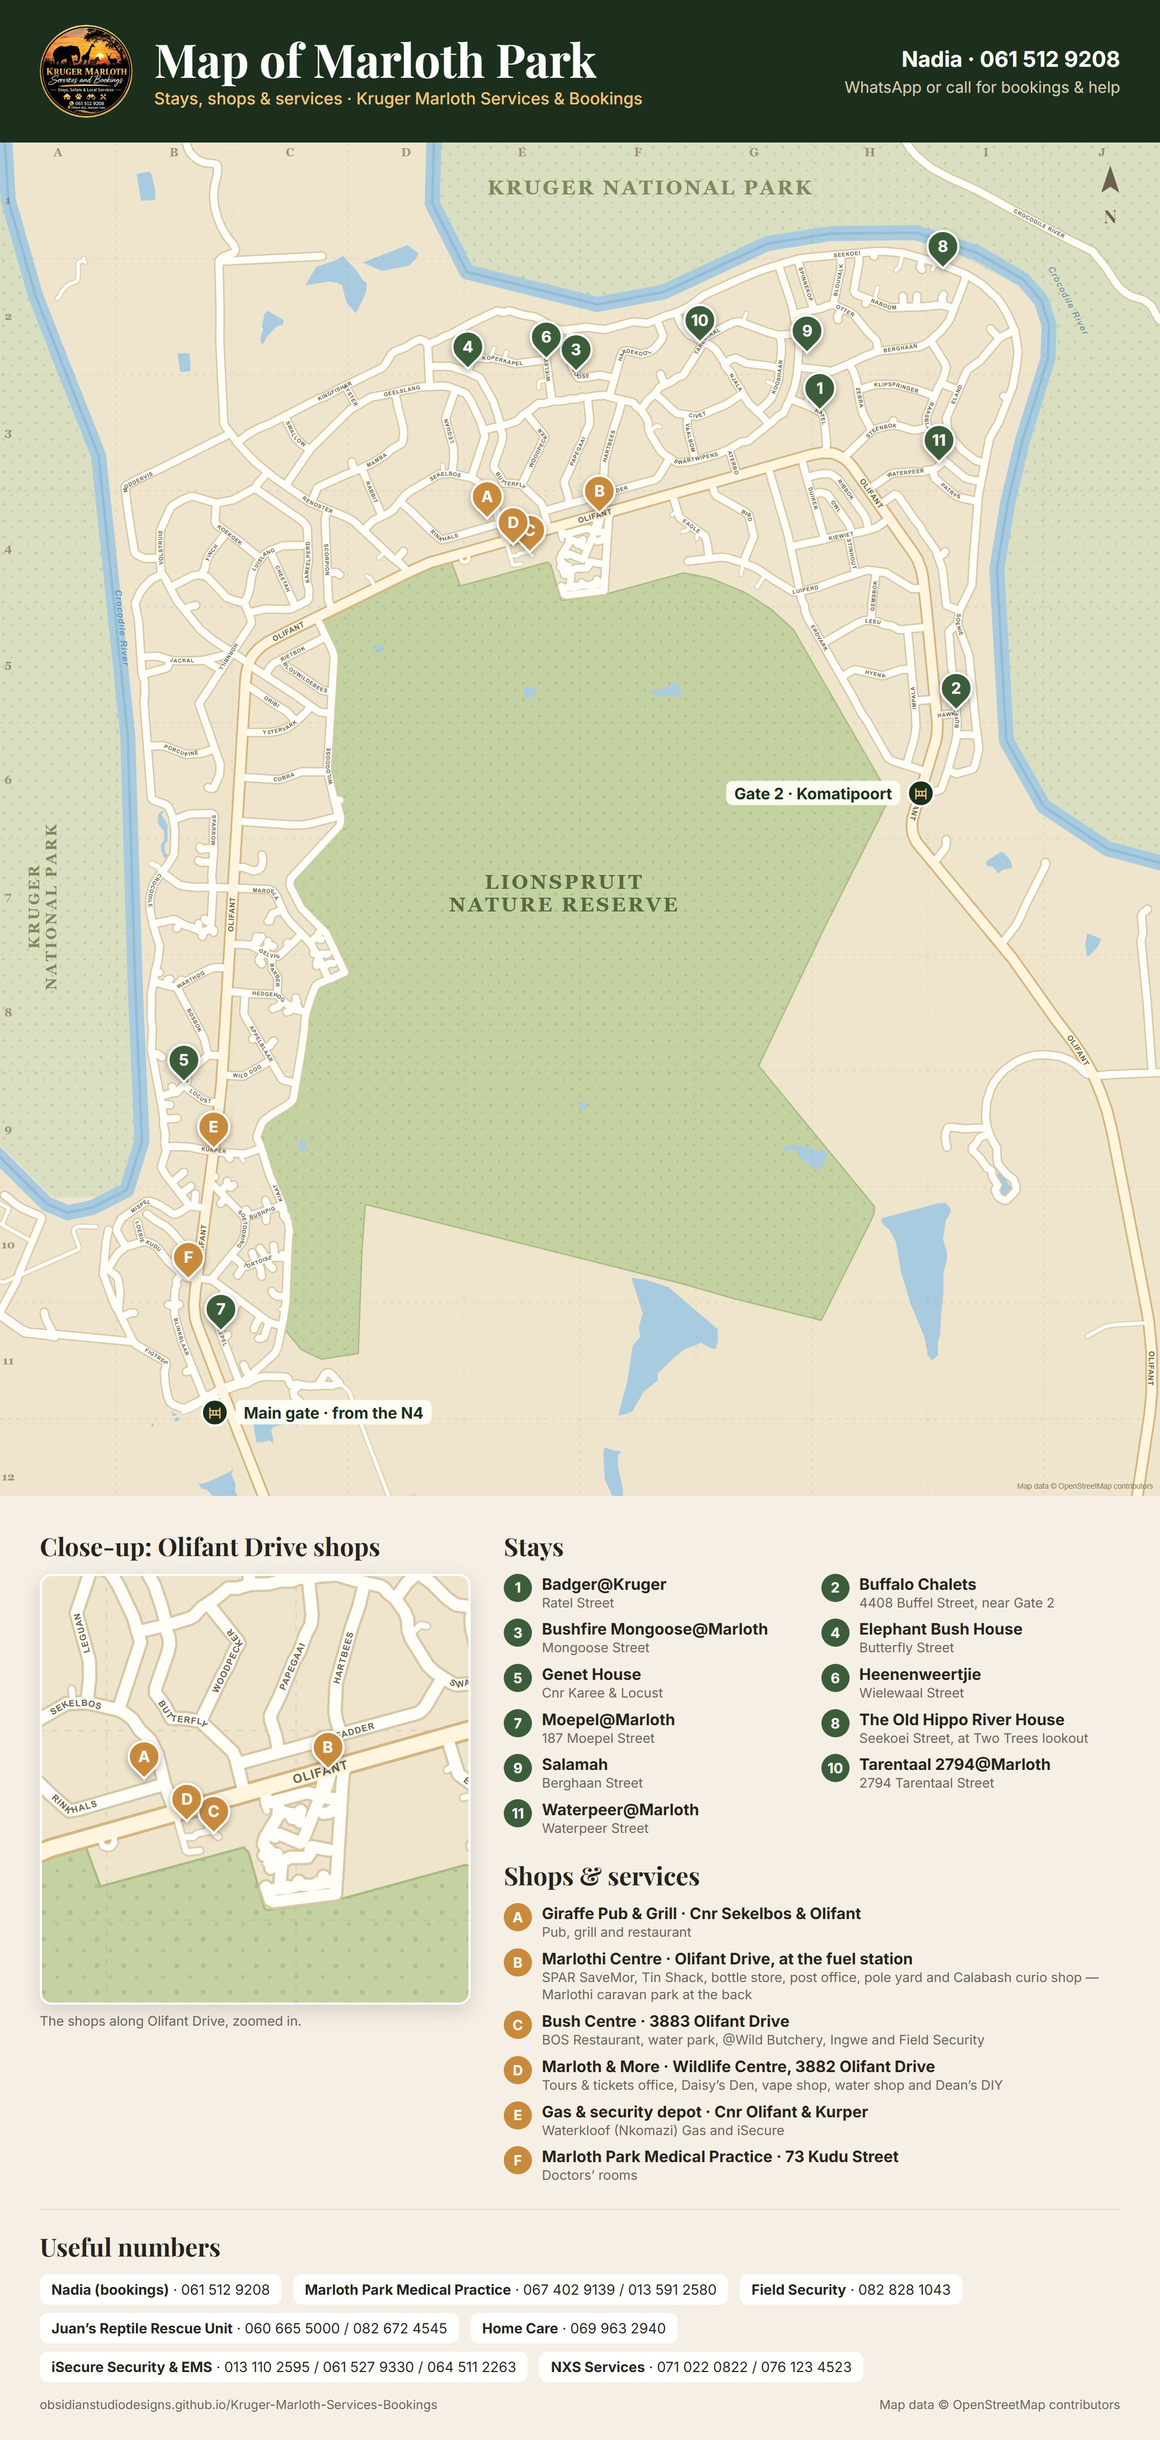
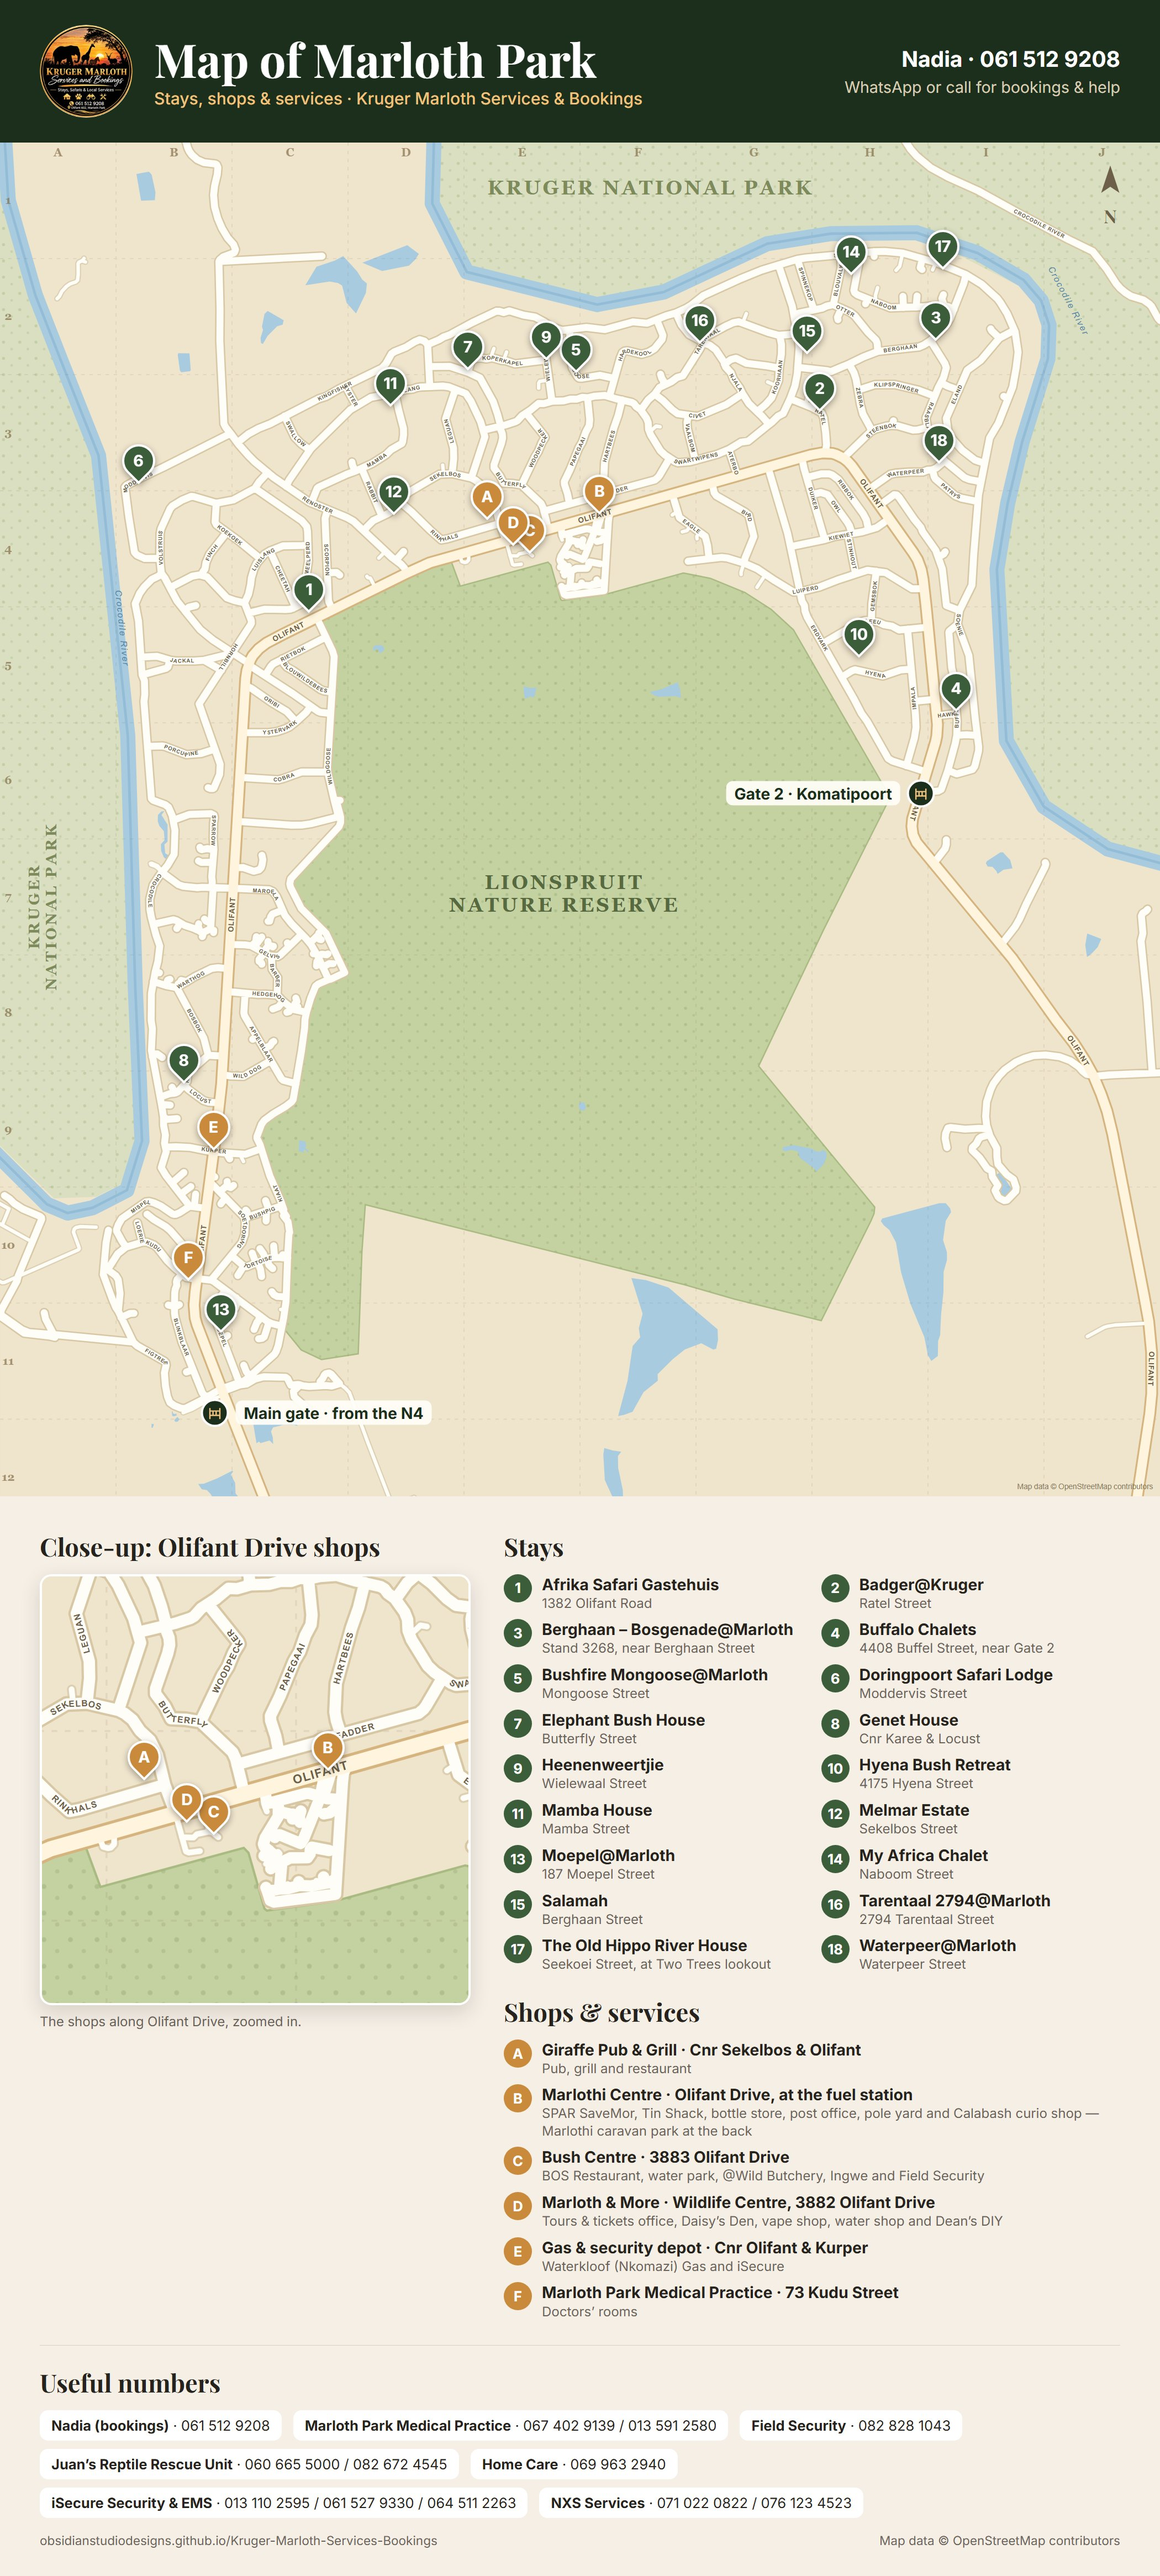
Pin 7 more stays on the park map from their Google listings
Afrika Safari Gastehuis, Bosgenade, Doringpoort Safari Lodge, Hyena Bush
Retreat (address from its own website), Mamba House, Melmar Estate and My
Africa Chalet. Offline map picture rebuilt.

diff --git a/assets/js/data.js b/assets/js/data.js
@@ -1449,16 +1449,23 @@ const EXPERIENCES = [
 const MAP = {
   bounds: { west: 31.748, east: 31.822, north: -25.326, south: -25.404 },
   stays: [
+    { stay: 'afrika-safari', lat: -25.35320, lng: 31.76771, where: '1382 Olifant Road' },
     { stay: 'badger-kruger', lat: -25.34160, lng: 31.80030, where: 'Ratel Street' },
+    { stay: 'bosgenade', lat: -25.33752, lng: 31.80771, where: 'Stand 3268, near Berghaan Street' },
     { stay: 'buffalo-chalets', lat: -25.35890, lng: 31.80900, where: '4408 Buffel Street, near Gate 2' },
     { stay: 'bushfire-mongoose', lat: -25.33936, lng: 31.78474, where: 'Mongoose Street' },
+    { stay: 'doringpoort', lat: -25.34577, lng: 31.75683, where: 'Moddervis Street' },
     { stay: 'elephant-bush-house', lat: -25.33923, lng: 31.77785, where: 'Butterfly Street' },
     { stay: 'genet-house', lat: -25.38031, lng: 31.75973, where: 'Cnr Karee & Locust' },
     { stay: 'heenenweertjie', lat: -25.33864, lng: 31.78285, where: 'Wielewaal Street' },
+    { stay: 'hyena-bush-retreat', lat: -25.35577, lng: 31.80280, where: '4175 Hyena Street' },
+    { stay: 'mamba-house', lat: -25.34132, lng: 31.77290, where: 'Mamba Street' },
+    { stay: 'melmar-estate', lat: -25.34757, lng: 31.77312, where: 'Sekelbos Street' },
     { stay: 'moepel', lat: -25.39468, lng: 31.76210, where: '187 Moepel Street' },
-    { stay: 'old-hippo', lat: -25.33341, lng: 31.80815, where: 'Seekoei Street, at Two Trees lookout' },
+    { stay: 'my-africa-chalet', lat: -25.33373, lng: 31.80231, where: 'Naboom Street' },
     { stay: 'salamah', lat: -25.33830, lng: 31.79950, where: 'Berghaan Street' },
     { stay: 'tarentaal', lat: -25.33770, lng: 31.79265, where: '2794 Tarentaal Street' },
+    { stay: 'old-hippo', lat: -25.33341, lng: 31.80815, where: 'Seekoei Street, at Two Trees lookout' },
     { stay: 'waterpeer', lat: -25.34460, lng: 31.80790, where: 'Waterpeer Street' },
   ],
   places: [

diff --git a/stays/doringpoort-lemoentjiedoring/index.html b/stays/doringpoort-lemoentjiedoring/index.html
@@ -148,7 +148,7 @@
 <link rel="preconnect" href="https://fonts.googleapis.com">
 <link rel="preconnect" href="https://fonts.gstatic.com" crossorigin>
 <link href="https://fonts.googleapis.com/css2?family=Playfair+Display:ital,wght@0,600;0,700;1,600&family=Inter:wght@400;500;600;700&display=swap" rel="stylesheet">
-<link rel="stylesheet" href="assets/css/site.css?v=20261113c" />
+<link rel="stylesheet" href="assets/css/site.css?v=20261113d" />
 </head>
 <body data-stay="doringpoort-lemoentjiedoring">
 <noscript><main class="container" style="padding:40px 16px">
@@ -376,8 +376,8 @@
 
 <div class="toast" id="toast" role="status" aria-live="polite"></div>
 
-<script src="assets/js/data.js?v=20261113c"></script>
-<script src="assets/js/common.js?v=20261113c"></script>
-<script src="assets/js/site.js?v=20261113c"></script>
+<script src="assets/js/data.js?v=20261113d"></script>
+<script src="assets/js/common.js?v=20261113d"></script>
+<script src="assets/js/site.js?v=20261113d"></script>
 </body>
 </html>

diff --git a/stays/doringpoort-delagoadoring/index.html b/stays/doringpoort-delagoadoring/index.html
@@ -143,7 +143,7 @@
 <link rel="preconnect" href="https://fonts.googleapis.com">
 <link rel="preconnect" href="https://fonts.gstatic.com" crossorigin>
 <link href="https://fonts.googleapis.com/css2?family=Playfair+Display:ital,wght@0,600;0,700;1,600&family=Inter:wght@400;500;600;700&display=swap" rel="stylesheet">
-<link rel="stylesheet" href="assets/css/site.css?v=20261113c" />
+<link rel="stylesheet" href="assets/css/site.css?v=20261113d" />
 </head>
 <body data-stay="doringpoort-delagoadoring">
 <noscript><main class="container" style="padding:40px 16px">
@@ -371,8 +371,8 @@
 
 <div class="toast" id="toast" role="status" aria-live="polite"></div>
 
-<script src="assets/js/data.js?v=20261113c"></script>
-<script src="assets/js/common.js?v=20261113c"></script>
-<script src="assets/js/site.js?v=20261113c"></script>
+<script src="assets/js/data.js?v=20261113d"></script>
+<script src="assets/js/common.js?v=20261113d"></script>
+<script src="assets/js/site.js?v=20261113d"></script>
 </body>
 </html>

diff --git a/stays/doringpoort-apiesdoring/index.html b/stays/doringpoort-apiesdoring/index.html
@@ -142,7 +142,7 @@
 <link rel="preconnect" href="https://fonts.googleapis.com">
 <link rel="preconnect" href="https://fonts.gstatic.com" crossorigin>
 <link href="https://fonts.googleapis.com/css2?family=Playfair+Display:ital,wght@0,600;0,700;1,600&family=Inter:wght@400;500;600;700&display=swap" rel="stylesheet">
-<link rel="stylesheet" href="assets/css/site.css?v=20261113c" />
+<link rel="stylesheet" href="assets/css/site.css?v=20261113d" />
 </head>
 <body data-stay="doringpoort-apiesdoring">
 <noscript><main class="container" style="padding:40px 16px">
@@ -370,8 +370,8 @@
 
 <div class="toast" id="toast" role="status" aria-live="polite"></div>
 
-<script src="assets/js/data.js?v=20261113c"></script>
-<script src="assets/js/common.js?v=20261113c"></script>
-<script src="assets/js/site.js?v=20261113c"></script>
+<script src="assets/js/data.js?v=20261113d"></script>
+<script src="assets/js/common.js?v=20261113d"></script>
+<script src="assets/js/site.js?v=20261113d"></script>
 </body>
 </html>

diff --git a/stays/doringpoort-luxury-home/index.html b/stays/doringpoort-luxury-home/index.html
@@ -148,7 +148,7 @@
 <link rel="preconnect" href="https://fonts.googleapis.com">
 <link rel="preconnect" href="https://fonts.gstatic.com" crossorigin>
 <link href="https://fonts.googleapis.com/css2?family=Playfair+Display:ital,wght@0,600;0,700;1,600&family=Inter:wght@400;500;600;700&display=swap" rel="stylesheet">
-<link rel="stylesheet" href="assets/css/site.css?v=20261113c" />
+<link rel="stylesheet" href="assets/css/site.css?v=20261113d" />
 </head>
 <body data-stay="doringpoort-luxury-home">
 <noscript><main class="container" style="padding:40px 16px">
@@ -376,8 +376,8 @@
 
 <div class="toast" id="toast" role="status" aria-live="polite"></div>
 
-<script src="assets/js/data.js?v=20261113c"></script>
-<script src="assets/js/common.js?v=20261113c"></script>
-<script src="assets/js/site.js?v=20261113c"></script>
+<script src="assets/js/data.js?v=20261113d"></script>
+<script src="assets/js/common.js?v=20261113d"></script>
+<script src="assets/js/site.js?v=20261113d"></script>
 </body>
 </html>

diff --git a/stays/doringpoort-soetdoring/index.html b/stays/doringpoort-soetdoring/index.html
@@ -136,7 +136,7 @@
 <link rel="preconnect" href="https://fonts.googleapis.com">
 <link rel="preconnect" href="https://fonts.gstatic.com" crossorigin>
 <link href="https://fonts.googleapis.com/css2?family=Playfair+Display:ital,wght@0,600;0,700;1,600&family=Inter:wght@400;500;600;700&display=swap" rel="stylesheet">
-<link rel="stylesheet" href="assets/css/site.css?v=20261113c" />
+<link rel="stylesheet" href="assets/css/site.css?v=20261113d" />
 </head>
 <body data-stay="doringpoort-soetdoring">
 <noscript><main class="container" style="padding:40px 16px">
@@ -364,8 +364,8 @@
 
 <div class="toast" id="toast" role="status" aria-live="polite"></div>
 
-<script src="assets/js/data.js?v=20261113c"></script>
-<script src="assets/js/common.js?v=20261113c"></script>
-<script src="assets/js/site.js?v=20261113c"></script>
+<script src="assets/js/data.js?v=20261113d"></script>
+<script src="assets/js/common.js?v=20261113d"></script>
+<script src="assets/js/site.js?v=20261113d"></script>
 </body>
 </html>

diff --git a/stays/elephant-bush-house/index.html b/stays/elephant-bush-house/index.html
@@ -127,7 +127,7 @@
 <link rel="preconnect" href="https://fonts.googleapis.com">
 <link rel="preconnect" href="https://fonts.gstatic.com" crossorigin>
 <link href="https://fonts.googleapis.com/css2?family=Playfair+Display:ital,wght@0,600;0,700;1,600&family=Inter:wght@400;500;600;700&display=swap" rel="stylesheet">
-<link rel="stylesheet" href="assets/css/site.css?v=20261113c" />
+<link rel="stylesheet" href="assets/css/site.css?v=20261113d" />
 </head>
 <body data-stay="elephant-bush-house">
 <noscript><main class="container" style="padding:40px 16px">
@@ -355,8 +355,8 @@
 
 <div class="toast" id="toast" role="status" aria-live="polite"></div>
 
-<script src="assets/js/data.js?v=20261113c"></script>
-<script src="assets/js/common.js?v=20261113c"></script>
-<script src="assets/js/site.js?v=20261113c"></script>
+<script src="assets/js/data.js?v=20261113d"></script>
+<script src="assets/js/common.js?v=20261113d"></script>
+<script src="assets/js/site.js?v=20261113d"></script>
 </body>
 </html>

diff --git a/stays/marloth-bush-escape/index.html b/stays/marloth-bush-escape/index.html
@@ -153,7 +153,7 @@
 <link rel="preconnect" href="https://fonts.googleapis.com">
 <link rel="preconnect" href="https://fonts.gstatic.com" crossorigin>
 <link href="https://fonts.googleapis.com/css2?family=Playfair+Display:ital,wght@0,600;0,700;1,600&family=Inter:wght@400;500;600;700&display=swap" rel="stylesheet">
-<link rel="stylesheet" href="assets/css/site.css?v=20261113c" />
+<link rel="stylesheet" href="assets/css/site.css?v=20261113d" />
 </head>
 <body data-stay="marloth-bush-escape">
 <noscript><main class="container" style="padding:40px 16px">
@@ -381,8 +381,8 @@
 
 <div class="toast" id="toast" role="status" aria-live="polite"></div>
 
-<script src="assets/js/data.js?v=20261113c"></script>
-<script src="assets/js/common.js?v=20261113c"></script>
-<script src="assets/js/site.js?v=20261113c"></script>
+<script src="assets/js/data.js?v=20261113d"></script>
+<script src="assets/js/common.js?v=20261113d"></script>
+<script src="assets/js/site.js?v=20261113d"></script>
 </body>
 </html>

diff --git a/stays/afrika-whole-house/index.html b/stays/afrika-whole-house/index.html
@@ -153,7 +153,7 @@
 <link rel="preconnect" href="https://fonts.googleapis.com">
 <link rel="preconnect" href="https://fonts.gstatic.com" crossorigin>
 <link href="https://fonts.googleapis.com/css2?family=Playfair+Display:ital,wght@0,600;0,700;1,600&family=Inter:wght@400;500;600;700&display=swap" rel="stylesheet">
-<link rel="stylesheet" href="assets/css/site.css?v=20261113c" />
+<link rel="stylesheet" href="assets/css/site.css?v=20261113d" />
 </head>
 <body data-stay="afrika-whole-house">
 <noscript><main class="container" style="padding:40px 16px">
@@ -381,8 +381,8 @@
 
 <div class="toast" id="toast" role="status" aria-live="polite"></div>
 
-<script src="assets/js/data.js?v=20261113c"></script>
-<script src="assets/js/common.js?v=20261113c"></script>
-<script src="assets/js/site.js?v=20261113c"></script>
+<script src="assets/js/data.js?v=20261113d"></script>
+<script src="assets/js/common.js?v=20261113d"></script>
+<script src="assets/js/site.js?v=20261113d"></script>
 </body>
 </html>

diff --git a/stays/hyena-bush-retreat/index.html b/stays/hyena-bush-retreat/index.html
@@ -148,7 +148,7 @@
 <link rel="preconnect" href="https://fonts.googleapis.com">
 <link rel="preconnect" href="https://fonts.gstatic.com" crossorigin>
 <link href="https://fonts.googleapis.com/css2?family=Playfair+Display:ital,wght@0,600;0,700;1,600&family=Inter:wght@400;500;600;700&display=swap" rel="stylesheet">
-<link rel="stylesheet" href="assets/css/site.css?v=20261113c" />
+<link rel="stylesheet" href="assets/css/site.css?v=20261113d" />
 </head>
 <body data-stay="hyena-bush-retreat">
 <noscript><main class="container" style="padding:40px 16px">
@@ -376,8 +376,8 @@
 
 <div class="toast" id="toast" role="status" aria-live="polite"></div>
 
-<script src="assets/js/data.js?v=20261113c"></script>
-<script src="assets/js/common.js?v=20261113c"></script>
-<script src="assets/js/site.js?v=20261113c"></script>
+<script src="assets/js/data.js?v=20261113d"></script>
+<script src="assets/js/common.js?v=20261113d"></script>
+<script src="assets/js/site.js?v=20261113d"></script>
 </body>
 </html>

diff --git a/stays/bushfire-mongoose/index.html b/stays/bushfire-mongoose/index.html
@@ -123,7 +123,7 @@
 <link rel="preconnect" href="https://fonts.googleapis.com">
 <link rel="preconnect" href="https://fonts.gstatic.com" crossorigin>
 <link href="https://fonts.googleapis.com/css2?family=Playfair+Display:ital,wght@0,600;0,700;1,600&family=Inter:wght@400;500;600;700&display=swap" rel="stylesheet">
-<link rel="stylesheet" href="assets/css/site.css?v=20261113c" />
+<link rel="stylesheet" href="assets/css/site.css?v=20261113d" />
 </head>
 <body data-stay="bushfire-mongoose">
 <noscript><main class="container" style="padding:40px 16px">
@@ -351,8 +351,8 @@
 
 <div class="toast" id="toast" role="status" aria-live="polite"></div>
 
-<script src="assets/js/data.js?v=20261113c"></script>
-<script src="assets/js/common.js?v=20261113c"></script>
-<script src="assets/js/site.js?v=20261113c"></script>
+<script src="assets/js/data.js?v=20261113d"></script>
+<script src="assets/js/common.js?v=20261113d"></script>
+<script src="assets/js/site.js?v=20261113d"></script>
 </body>
 </html>

diff --git a/stays/bushveld-paradise/index.html b/stays/bushveld-paradise/index.html
@@ -153,7 +153,7 @@
 <link rel="preconnect" href="https://fonts.googleapis.com">
 <link rel="preconnect" href="https://fonts.gstatic.com" crossorigin>
 <link href="https://fonts.googleapis.com/css2?family=Playfair+Display:ital,wght@0,600;0,700;1,600&family=Inter:wght@400;500;600;700&display=swap" rel="stylesheet">
-<link rel="stylesheet" href="assets/css/site.css?v=20261113c" />
+<link rel="stylesheet" href="assets/css/site.css?v=20261113d" />
 </head>
 <body data-stay="bushveld-paradise">
 <noscript><main class="container" style="padding:40px 16px">
@@ -381,8 +381,8 @@
 
 <div class="toast" id="toast" role="status" aria-live="polite"></div>
 
-<script src="assets/js/data.js?v=20261113c"></script>
-<script src="assets/js/common.js?v=20261113c"></script>
-<script src="assets/js/site.js?v=20261113c"></script>
+<script src="assets/js/data.js?v=20261113d"></script>
+<script src="assets/js/common.js?v=20261113d"></script>
+<script src="assets/js/site.js?v=20261113d"></script>
 </body>
 </html>
